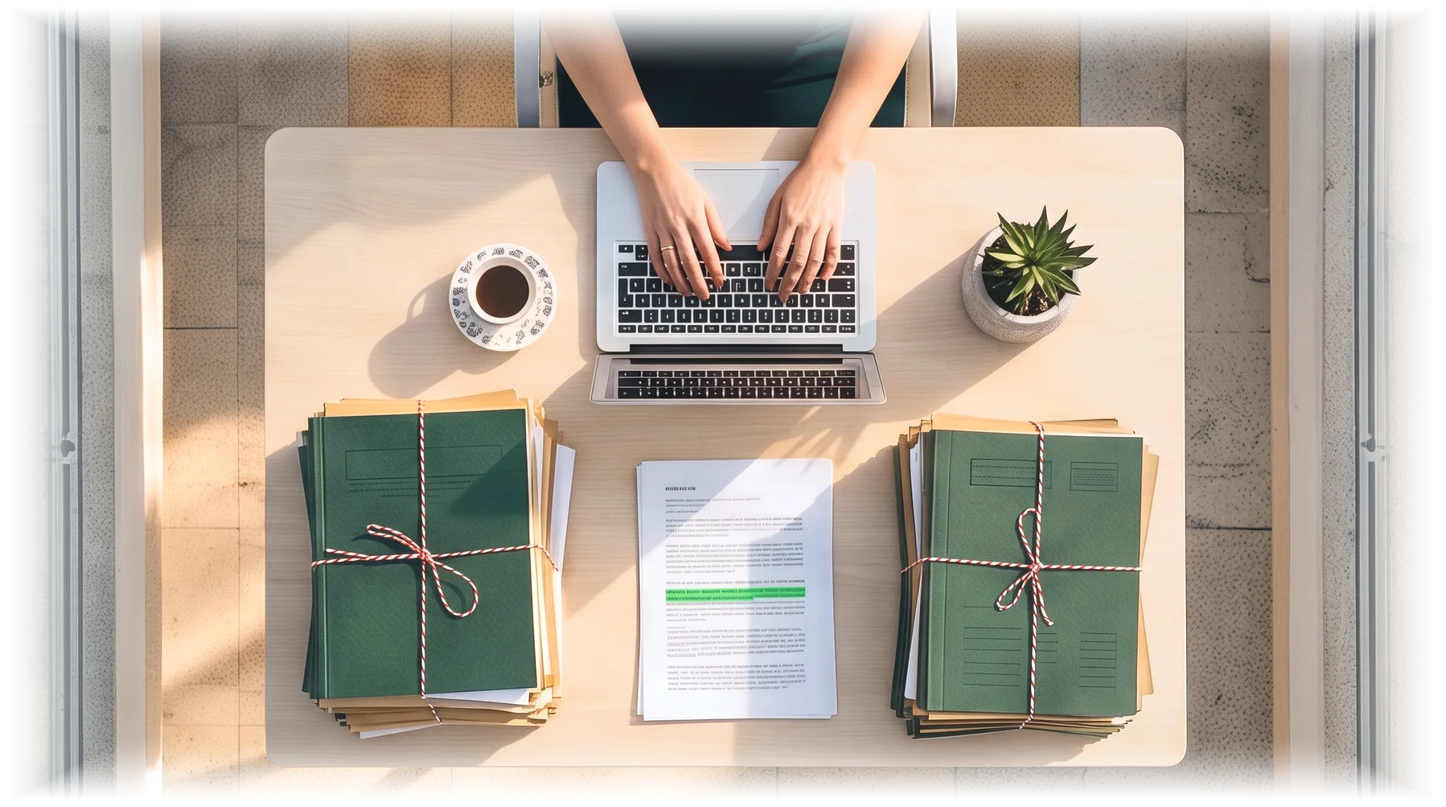
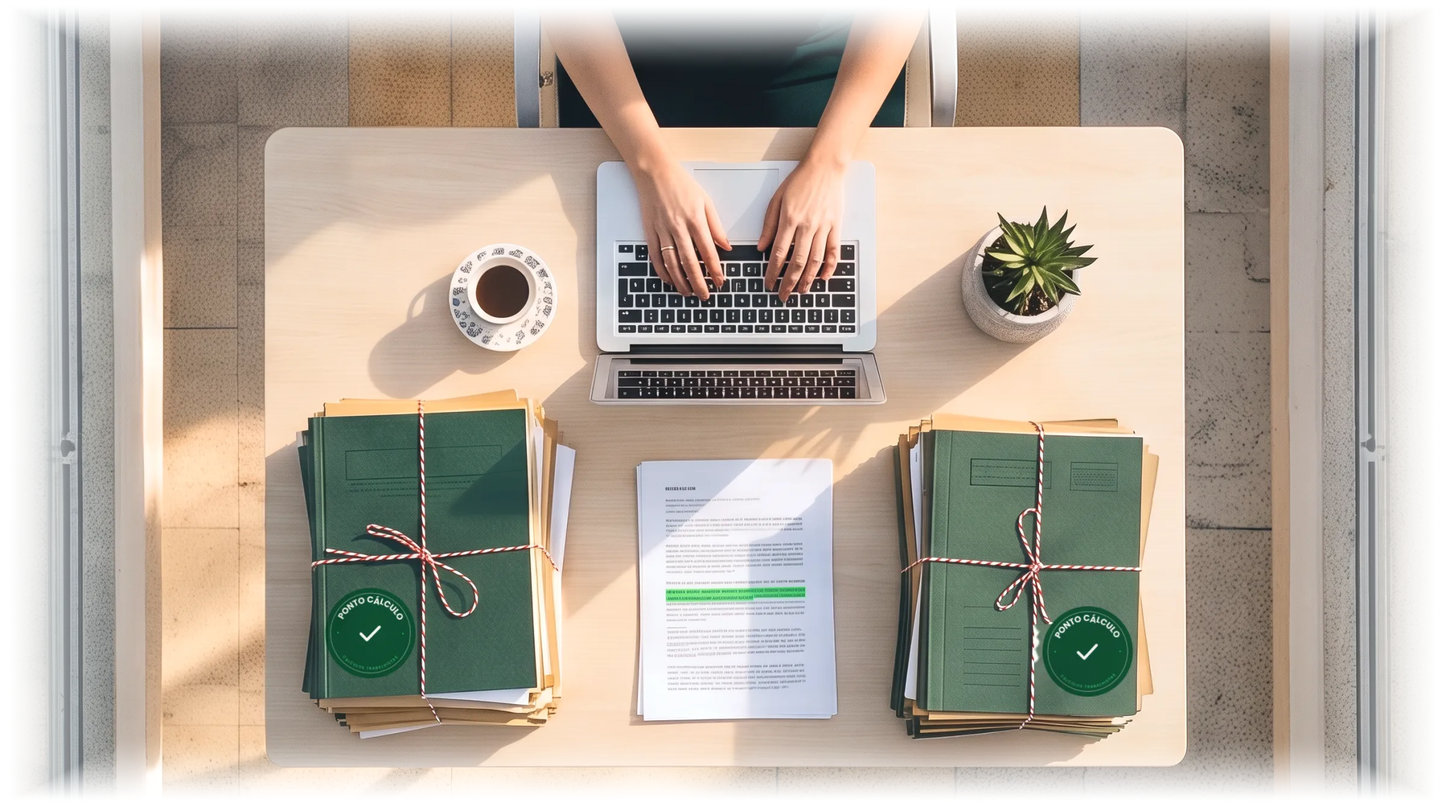
Add files via upload

Changed region(s): [[0.2188, 0.7343, 0.3125, 0.8567], [0.7188, 0.7343, 0.7812, 0.8567]]

diff --git a/v8/index.html b/v8/index.html
@@ -262,6 +262,18 @@
   .foot__row a { color: var(--snow); }
   a.snd { text-decoration: none; }
   @media (max-width: 560px) { .bar a.snd { display: none; } }
+  .v9btn { display: inline-flex; align-items: center; gap: 10px; height: 50px; padding: 0 24px; border-radius: 999px; border: 1.5px solid var(--deep); color: var(--deep); background: transparent; font: 700 12px/1 var(--sc-font-text); letter-spacing: .18em; text-transform: uppercase; text-decoration: none; white-space: nowrap; }
+  .v9btn:hover { background: var(--deep); color: var(--snow); }
+  .v9btn--claro { border-color: rgba(247, 250, 246, .75); color: var(--snow); background: rgba(6, 22, 15, .25); }
+  .v9btn--claro:hover { background: var(--snow); color: var(--deep); }
+  .v9btn:focus-visible { outline: 3px solid var(--mint); outline-offset: 3px; }
+  .st .v9btn { margin: 26px 0 0 10px; height: 52px; }
+  .v9card { margin-top: 22px; padding: 18px 20px; border-radius: 6px; background: #fff; border: 1px solid var(--line-d); }
+  .v9card p { font: 500 14.5px/1.5 var(--sc-font-text); color: var(--sc-ink-soft); margin-bottom: 14px; }
+  .v9card b { color: var(--deep); }
+  .foot__ctas { display: flex; flex-wrap: wrap; gap: 12px; align-items: center; }
+  @media (max-width: 860px) { .st .v9btn { margin-left: 0; margin-top: 10px; } }
+  @media (min-width: 861px) { .st--dtop { top: clamp(100px, 14vh, 150px); bottom: auto; } .stats { top: clamp(112px, 16vh, 166px); bottom: auto; } }
 </style>
 </head>
 <body>
@@ -300,7 +312,7 @@
         <p class="tag">E o erro costuma aparecer só na impugnação.</p>
       </div>
 
-      <div class="st st--bl" data-st="3" data-sc-cue="0.63 0.83 0.2 0.2">
+      <div class="st st--bl st--dtop" data-st="3" data-sc-cue="0.63 0.83 0.2 0.2">
         <p class="lab">O método</p>
         <h2 class="big">Leia. Confira. <em>Deixe com</em> o robô.</h2>
         <p class="tag">Ele lê o PDF dos autos e lança no programa oficial.</p>
@@ -317,6 +329,7 @@
         <h2 class="big">Quem confere <em>e assina</em> é você.</h2>
         <p class="tag">O robô lança. Você aprova, item por item.</p>
         <a class="go" href="#lote">Garantir minha vaga <svg viewBox="0 0 16 16" width="13" height="13" fill="none" stroke="currentColor" stroke-width="1.8" stroke-linecap="round" stroke-linejoin="round" aria-hidden="true"><path d="M4 12L12 4M6 4h6v6"/></svg></a>
+        <a class="v9btn v9btn--claro" href="../">Ver a página completa</a>
       </div>
 
       <div class="alt" aria-hidden="true"><span class="lab">Até o campo 97</span><span class="alt__rule"><i></i></span><span class="alt__n" id="altN">612 m</span></div>
@@ -385,7 +398,10 @@
           <li><b>01</b>Quem está na lista recebe o convite antes de abrir.</li>
           <li><b>00</b>Nada é cobrado agora. É só uma reserva.</li>
         </ul>
-        <p class="mais">Quer ver o robô por dentro, com o Caso C inteiro e as perguntas de sempre? <a href="../">Veja a página completa</a>.</p>
+        <div class="v9card">
+          <p><b>Quer ver o robô por dentro antes?</b> O Caso C inteiro, sem corte, o método passo a passo e as perguntas de sempre.</p>
+          <a class="v9btn" href="../">Ver a página completa <svg viewBox="0 0 16 16" width="13" height="13" fill="none" stroke="currentColor" stroke-width="1.8" stroke-linecap="round" stroke-linejoin="round" aria-hidden="true"><path d="M4 12L12 4M6 4h6v6"/></svg></a>
+        </div>
       </div>
       <div class="form" id="formCard">
         <form id="leadForm" method="post" action="#" novalidate>
@@ -444,7 +460,10 @@
       <p class="big big--md">A fila <em>está aberta.</em></p>
       <p class="tag">50 licenças. Nada é cobrado agora.</p>
     </div>
-    <a class="foot__go" href="#lote">Garantir minha vaga <svg viewBox="0 0 16 16" width="13" height="13" fill="none" stroke="currentColor" stroke-width="1.8" stroke-linecap="round" stroke-linejoin="round" aria-hidden="true"><path d="M4 12L12 4M6 4h6v6"/></svg></a>
+    <div class="foot__ctas">
+      <a class="foot__go" href="#lote">Garantir minha vaga <svg viewBox="0 0 16 16" width="13" height="13" fill="none" stroke="currentColor" stroke-width="1.8" stroke-linecap="round" stroke-linejoin="round" aria-hidden="true"><path d="M4 12L12 4M6 4h6v6"/></svg></a>
+      <a class="v9btn v9btn--claro" href="../">Ver a página completa</a>
+    </div>
   </div>
   <div class="foot__cols">
     <div><div class="foot__brand"><img src="logo.png" width="34" height="34" alt=""><b>Ponto Cálculo</b></div><p>O robô do <span class="nw">PJe-Calc</span>. Quem confere e assina é você.</p></div>
